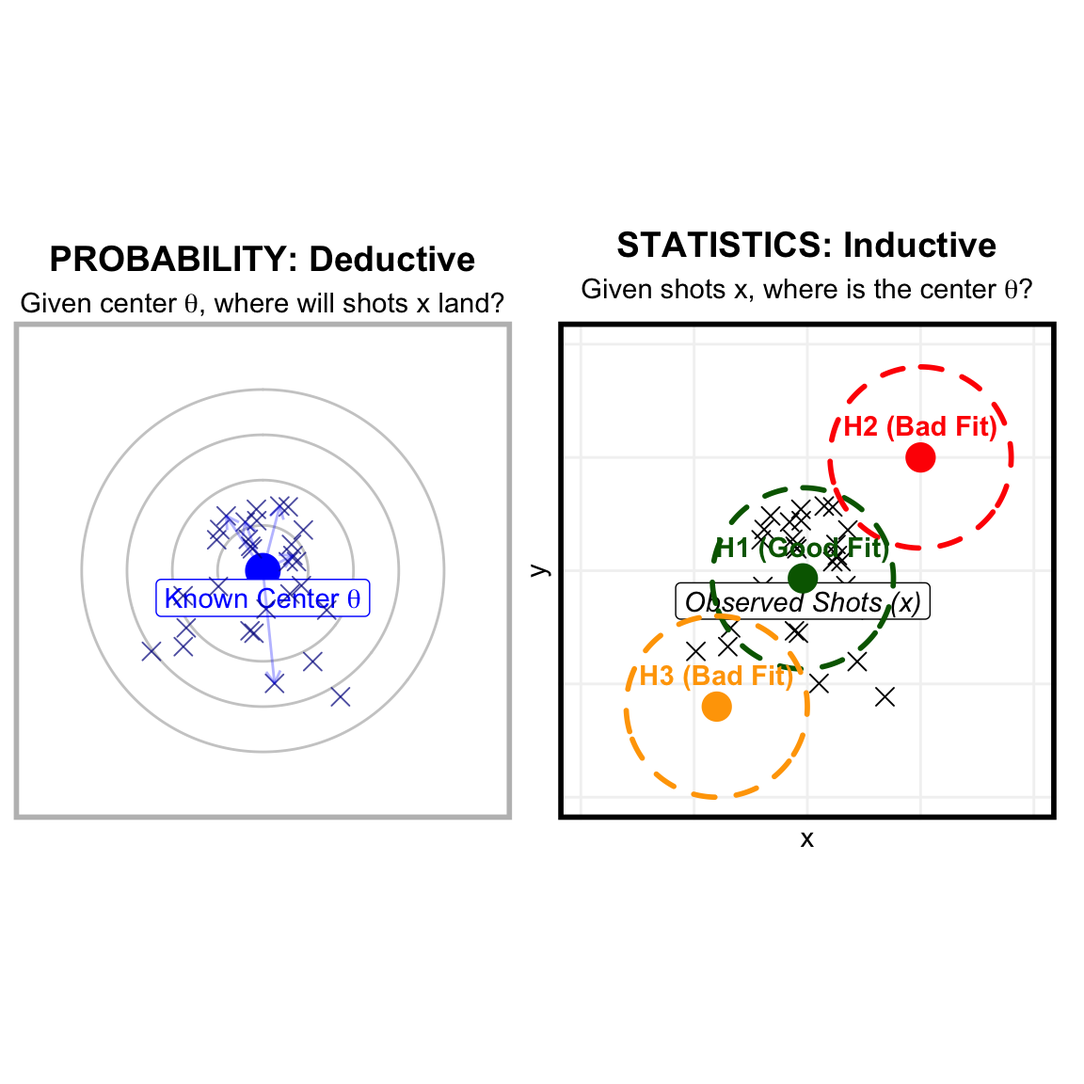
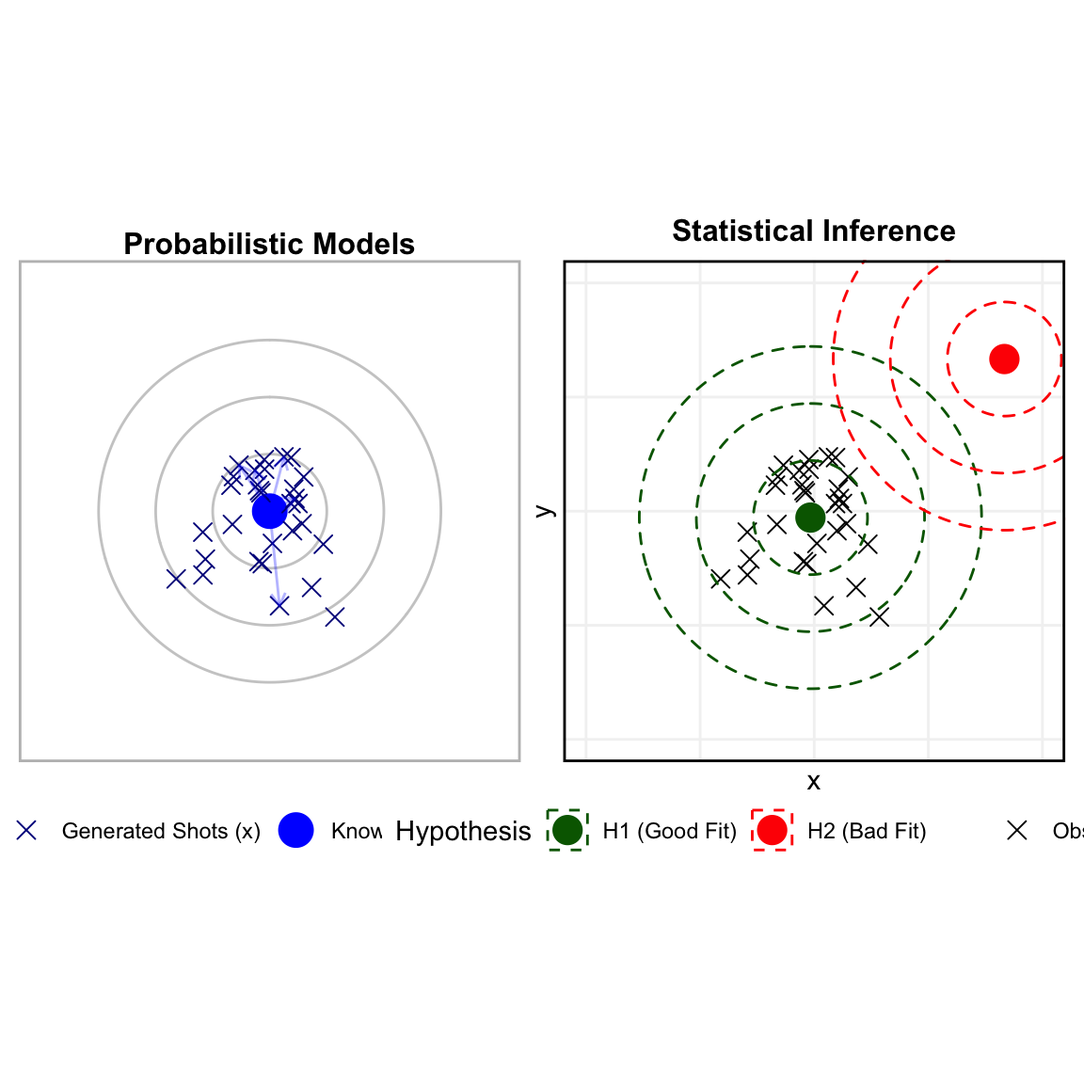
syn2GH from KNW5YYVTFD

diff --git a/teaching/stat850/mathstat/introstatinf.html b/teaching/stat850/mathstat/introstatinf.html
@@ -214,8 +214,14 @@ window.Quarto = {
   <li><a href="#types-of-statistical-inference" id="toc-types-of-statistical-inference" class="nav-link" data-scroll-target="#types-of-statistical-inference"><span class="header-section-number">1.4</span> Types of Statistical Inference</a></li>
   <li><a href="#standard-paradigms-for-inference" id="toc-standard-paradigms-for-inference" class="nav-link" data-scroll-target="#standard-paradigms-for-inference"><span class="header-section-number">1.5</span> Standard Paradigms for Inference</a>
   <ul>
-  <li><a href="#frequentist-inference-fisher" id="toc-frequentist-inference-fisher" class="nav-link" data-scroll-target="#frequentist-inference-fisher"><span class="header-section-number">1.5.1</span> Frequentist Inference (Fisher)</a></li>
-  <li><a href="#bayesian-inference" id="toc-bayesian-inference" class="nav-link" data-scroll-target="#bayesian-inference"><span class="header-section-number">1.5.2</span> Bayesian Inference</a></li>
+  <li><a href="#frequentist-inference-fisher" id="toc-frequentist-inference-fisher" class="nav-link" data-scroll-target="#frequentist-inference-fisher"><span class="header-section-number">1.5.1</span> Frequentist Inference (Fisher)</a>
+  <ul class="collapse">
+  <li><a href="#bernoulli-example-sampling-distribution" id="toc-bernoulli-example-sampling-distribution" class="nav-link" data-scroll-target="#bernoulli-example-sampling-distribution"><span class="header-section-number">1.5.1.1</span> Bernoulli Example: Sampling Distribution</a></li>
+  </ul></li>
+  <li><a href="#bayesian-inference" id="toc-bayesian-inference" class="nav-link" data-scroll-target="#bayesian-inference"><span class="header-section-number">1.5.2</span> Bayesian Inference</a>
+  <ul class="collapse">
+  <li><a href="#bernoulli-example-bayesian-update" id="toc-bernoulli-example-bayesian-update" class="nav-link" data-scroll-target="#bernoulli-example-bayesian-update"><span class="header-section-number">1.5.2.1</span> Bernoulli Example: Bayesian Update</a></li>
+  </ul></li>
   <li><a href="#bayesian-prediction" id="toc-bayesian-prediction" class="nav-link" data-scroll-target="#bayesian-prediction"><span class="header-section-number">1.5.3</span> Bayesian Prediction</a></li>
   </ul></li>
   </ul>
@@ -260,7 +266,10 @@ window.Quarto = {
 <p><strong>Note on Simplicity:</strong></p>
 <p>The assumption that observations are identically distributed is made primarily for <strong>notational simplicity</strong>. There is no fundamental issue in extending this framework to <strong>regression settings</strong>, where the distribution depends on covariates (e.g., <span class="math inline">\(Y_i | X_i\)</span>), or to other complex structures.</p>
 <div id="exm-normal-distribution" class="theorem example">
-<p><span class="theorem-title"><strong>Example 1.1 (Parametric Model)</strong></span> Consider the Normal distribution: <span class="math display">\[f(x; \theta) = \frac{1}{\sqrt{2\pi\sigma^2}} e^{-\frac{(x-\mu)^2}{2\sigma^2}}\]</span> Here, the parameter space is <span class="math inline">\(\Theta = \{ (\mu, \sigma^2) : \mu \in \mathbb{R}, \sigma \in [0, +\infty) \}\)</span>. The goal is to learn aspects of the unknown <span class="math inline">\(\theta\)</span> from observations <span class="math inline">\(X_1, \dots, X_n\)</span>.</p>
+<p><span class="theorem-title"><strong>Example 1.1 (Parametric Model: Normal)</strong></span> Consider the Normal distribution: <span class="math display">\[f(x; \theta) = \frac{1}{\sqrt{2\pi\sigma^2}} e^{-\frac{(x-\mu)^2}{2\sigma^2}}\]</span> Here, the parameter space is <span class="math inline">\(\Theta = \{ (\mu, \sigma^2) : \mu \in \mathbb{R}, \sigma \in [0, +\infty) \}\)</span>. The goal is to learn aspects of the unknown <span class="math inline">\(\theta\)</span> from observations <span class="math inline">\(X_1, \dots, X_n\)</span>.</p>
+</div>
+<div id="exm-bernoulli-distribution" class="theorem example">
+<p><span class="theorem-title"><strong>Example 1.2 (Parametric Model: Bernoulli)</strong></span> Consider a sequence of coin flips where each <span class="math inline">\(X_i \in \{0, 1\}\)</span>. We assume <span class="math inline">\(X_i \sim \text{Bernoulli}(\theta)\)</span>. The probability mass function is: <span class="math display">\[f(x; \theta) = \theta^x (1-\theta)^{1-x}\]</span> Here, the parameter space is <span class="math inline">\(\Theta = [0, 1]\)</span>, where <span class="math inline">\(\theta\)</span> represents the probability of success (e.g., “Heads”).</p>
 </div>
 </section>
 </section>
@@ -275,13 +284,13 @@ window.Quarto = {
 </ul>
 <div class="cell">
 <div class="cell-output-display">
-<div id="fig-prob-vs-stat-target" class="quarto-float quarto-figure quarto-figure-center anchored">
+<div id="fig-prob-vs-stat-base" class="quarto-float quarto-figure quarto-figure-center anchored">
 <figure class="quarto-float quarto-float-fig figure">
-<div aria-describedby="fig-prob-vs-stat-target-caption-0ceaefa1-69ba-4598-a22c-09a6ac19f8ca">
-<img src="introstatinf_files/figure-html/fig-prob-vs-stat-target-1.png" class="img-fluid figure-img" width="576">
+<div aria-describedby="fig-prob-vs-stat-base-caption-0ceaefa1-69ba-4598-a22c-09a6ac19f8ca">
+<img src="introstatinf_files/figure-html/fig-prob-vs-stat-base-1.png" class="img-fluid figure-img" width="960">
 </div>
-<figcaption class="quarto-float-caption-bottom quarto-float-caption quarto-float-fig" id="fig-prob-vs-stat-target-caption-0ceaefa1-69ba-4598-a22c-09a6ac19f8ca">
-Figure&nbsp;1.1: The Shooting Analogy. Left (Probability): The center <span class="math inline">\(\theta\)</span> is fixed; shots <span class="math inline">\(x\)</span> are generated around it. Right (Statistics): The shots <span class="math inline">\(x\)</span> are fixed on a square board; we test different hypothesized centers (colored circles) to see which <span class="math inline">\(\theta\)</span> fit the data best.
+<figcaption class="quarto-float-caption-bottom quarto-float-caption quarto-float-fig" id="fig-prob-vs-stat-base-caption-0ceaefa1-69ba-4598-a22c-09a6ac19f8ca">
+Figure&nbsp;1.1: Probability vs Statistics. Left: Probability—The model is fixed (Blue center/contours), generating random data. Right: Statistics—Data is fixed (Black points); we test two hypothesized models: H1 (Green) centered at the sample mean (Good Fit) and H2 (Red) shifted by (1.5, 1.5) (Bad Fit).
 </figcaption>
 </figure>
 </div>
@@ -295,7 +304,7 @@ Figure&nbsp;1.1: The Shooting Analogy. Left (Probability): The center <span clas
 <p><span class="theorem-title"><strong>Definition 1.2 (Likelihood Function)</strong></span> Let <span class="math inline">\(f(x_1, \dots, x_n; \theta)\)</span> be the joint probability density (or mass) function of the data given the parameter <span class="math inline">\(\theta\)</span>. When we view this function as a function of <span class="math inline">\(\theta\)</span> for fixed observed data <span class="math inline">\(x_1, \dots, x_n\)</span>, we call it the <strong>likelihood function</strong>, denoted <span class="math inline">\(L(\theta)\)</span>. <span class="math display">\[L(\theta) = f(x_1, \dots, x_n; \theta)\]</span></p>
 </div>
 <div id="exm-bernoulli-likelihood" class="theorem example">
-<p><span class="theorem-title"><strong>Example 1.2 (Example: Bernoulli Trial)</strong></span> Consider a coin flip where <span class="math inline">\(X \sim \text{Bernoulli}(\theta)\)</span>. The probability of Heads (1) is <span class="math inline">\(\theta\)</span>, and Tails (0) is <span class="math inline">\(1-\theta\)</span>. Suppose we observe 3 independent flips: <strong>1, 0, 1</strong>.</p>
+<p><span class="theorem-title"><strong>Example 1.3 (Example: Bernoulli Trial)</strong></span> Consider a coin flip where <span class="math inline">\(X \sim \text{Bernoulli}(\theta)\)</span>. The probability of Heads (1) is <span class="math inline">\(\theta\)</span>, and Tails (0) is <span class="math inline">\(1-\theta\)</span>. Suppose we observe 3 independent flips: <strong>1, 0, 1</strong>.</p>
 <p>The probability of observing this specific sequence is: <span class="math display">\[L(\theta) = P(X_1=1) \cdot P(X_2=0) \cdot P(X_3=1) = \theta \cdot (1-\theta) \cdot \theta = \theta^2(1-\theta)\]</span></p>
 <p>We can calculate the likelihood for various values of <span class="math inline">\(\theta\)</span>:</p>
 <table class="caption-top table">
@@ -385,25 +394,25 @@ Figure&nbsp;1.2: The Likelihood Function <span class="math inline">\(L(\theta)\)
 <p><span class="theorem-title"><strong>Definition 1.3 (Point Estimation)</strong></span> We use a single number to capture the parameter. <span class="math display">\[\hat{\theta} = \theta(X_1, \dots, X_n)\]</span></p>
 </div>
 <div id="exm-point-est" class="theorem example">
-<p><span class="theorem-title"><strong>Example 1.3 (Estimating Average Height)</strong></span> We want to estimate the average height (<span class="math inline">\(\mu\)</span>) of all students in a university. We measure 100 students and calculate the sample mean <span class="math inline">\(\bar{x} = 170\)</span> cm. Our point estimate is <span class="math inline">\(\hat{\mu} = 170\)</span>.</p>
+<p><span class="theorem-title"><strong>Example 1.4 (Estimating Average Height)</strong></span> We want to estimate the average height (<span class="math inline">\(\mu\)</span>) of all students in a university. We measure 100 students and calculate the sample mean <span class="math inline">\(\bar{x} = 170\)</span> cm. Our point estimate is <span class="math inline">\(\hat{\mu} = 170\)</span>.</p>
 </div>
 <div id="def-interval-estimation" class="theorem definition">
 <p><span class="theorem-title"><strong>Definition 1.4 (Interval Estimation)</strong></span> We construct an interval that likely contains the true parameter. <span class="math display">\[\theta \in (L(X_1, \dots, X_n), U(X_1, \dots, X_n))\]</span> The true parameter is within this interval.</p>
 </div>
 <div id="exm-interval-est" class="theorem example">
-<p><span class="theorem-title"><strong>Example 1.4 (Confidence Interval for Height)</strong></span> Using the same height data, we calculate a 95% Confidence Interval. We state: “We are 95% confident that the true average height is between 168 cm and 172 cm.”</p>
+<p><span class="theorem-title"><strong>Example 1.5 (Confidence Interval for Height)</strong></span> Using the same height data, we calculate a 95% Confidence Interval. We state: “We are 95% confident that the true average height is between 168 cm and 172 cm.”</p>
 </div>
 <div id="def-hypothesis-testing" class="theorem definition">
 <p><span class="theorem-title"><strong>Definition 1.5 (Hypothesis Testing)</strong></span> We test a specific theory about the parameter. <span class="math display">\[H_0: \theta = \theta_0 \quad \text{vs} \quad H_1: \theta \neq \theta_0\]</span> (Or one-sided alternatives like <span class="math inline">\(\theta &gt; \theta_0\)</span>).</p>
 </div>
 <div id="exm-hypothesis-test" class="theorem example">
-<p><span class="theorem-title"><strong>Example 1.5 (Testing Soda Volume)</strong></span> A manufacturer claims their soda bottles contain exactly 500ml (<span class="math inline">\(H_0: \mu = 500\)</span>). We measure a sample and find an average of 495ml. We perform a test to see if this difference is significant enough to reject the manufacturer’s claim.</p>
+<p><span class="theorem-title"><strong>Example 1.6 (Testing Soda Volume)</strong></span> A manufacturer claims their soda bottles contain exactly 500ml (<span class="math inline">\(H_0: \mu = 500\)</span>). We measure a sample and find an average of 495ml. We perform a test to see if this difference is significant enough to reject the manufacturer’s claim.</p>
 </div>
 <div id="def-predictive-inference" class="theorem definition">
 <p><span class="theorem-title"><strong>Definition 1.6 (Predictive Inference)</strong></span> Given observed data <span class="math inline">\((X_1, Y_1), \dots, (X_n, Y_n)\)</span>, we want to predict a new observation <span class="math inline">\(Y_{n+1}\)</span> given <span class="math inline">\(X_{n+1}\)</span>. This is often the primary goal in <strong>Machine Learning</strong>.</p>
 </div>
 <div id="exm-predictive-inference" class="theorem example">
-<p><span class="theorem-title"><strong>Example 1.6 (Predicting House Prices)</strong></span> Based on data about house sizes (<span class="math inline">\(X\)</span>) and prices (<span class="math inline">\(Y\)</span>) from the last year, we want to predict the selling price (<span class="math inline">\(Y_{n+1}\)</span>) of a specific new house that is 2000 sq ft (<span class="math inline">\(X_{n+1}\)</span>).</p>
+<p><span class="theorem-title"><strong>Example 1.7 (Predicting House Prices)</strong></span> Based on data about house sizes (<span class="math inline">\(X\)</span>) and prices (<span class="math inline">\(Y\)</span>) from the last year, we want to predict the selling price (<span class="math inline">\(Y_{n+1}\)</span>) of a specific new house that is 2000 sq ft (<span class="math inline">\(X_{n+1}\)</span>).</p>
 </div>
 </section>
 <section id="standard-paradigms-for-inference" class="level2" data-number="1.5">
@@ -431,6 +440,68 @@ Figure&nbsp;1.3: Frequentist Concept: The Sampling Distribution. The parameter <
 </div>
 </div>
 </div>
+<section id="bernoulli-example-sampling-distribution" class="level4" data-number="1.5.1.1">
+<h4 data-number="1.5.1.1" class="anchored" data-anchor-id="bernoulli-example-sampling-distribution"><span class="header-section-number">1.5.1.1</span> Bernoulli Example: Sampling Distribution</h4>
+<p>For our Bernoulli data (<span class="math inline">\(x = \{1, 0, 1\}\)</span>, <span class="math inline">\(n=3\)</span>), the estimator <span class="math inline">\(\bar{X}\)</span> is a scaled Binomial variable. If the true parameter were <span class="math inline">\(\theta = 0.5\)</span>, the exact distribution and its Normal approximation would be:</p>
+<div class="cell">
+<details class="code-fold">
+<summary>Code</summary>
+<div class="sourceCode cell-code" id="cb2"><pre class="sourceCode r code-with-copy"><code class="sourceCode r"><span id="cb2-1"><a href="#cb2-1" aria-hidden="true" tabindex="-1"></a>true_theta <span class="ot">&lt;-</span> <span class="fl">0.5</span></span>
+<span id="cb2-2"><a href="#cb2-2" aria-hidden="true" tabindex="-1"></a>n <span class="ot">&lt;-</span> <span class="dv">3</span></span>
+<span id="cb2-3"><a href="#cb2-3" aria-hidden="true" tabindex="-1"></a>k_vals <span class="ot">&lt;-</span> <span class="dv">0</span><span class="sc">:</span>n</span>
+<span id="cb2-4"><a href="#cb2-4" aria-hidden="true" tabindex="-1"></a>x_bar_vals <span class="ot">&lt;-</span> k_vals <span class="sc">/</span> n</span>
+<span id="cb2-5"><a href="#cb2-5" aria-hidden="true" tabindex="-1"></a>probs <span class="ot">&lt;-</span> <span class="fu">dbinom</span>(k_vals, <span class="at">size=</span>n, <span class="at">prob=</span>true_theta)</span>
+<span id="cb2-6"><a href="#cb2-6" aria-hidden="true" tabindex="-1"></a></span>
+<span id="cb2-7"><a href="#cb2-7" aria-hidden="true" tabindex="-1"></a>df_exact <span class="ot">&lt;-</span> <span class="fu">data.frame</span>(<span class="at">x_bar =</span> x_bar_vals, <span class="at">prob =</span> probs)</span>
+<span id="cb2-8"><a href="#cb2-8" aria-hidden="true" tabindex="-1"></a></span>
+<span id="cb2-9"><a href="#cb2-9" aria-hidden="true" tabindex="-1"></a>x_grid <span class="ot">&lt;-</span> <span class="fu">seq</span>(<span class="sc">-</span><span class="fl">0.2</span>, <span class="fl">1.2</span>, <span class="at">length.out=</span><span class="dv">200</span>)</span>
+<span id="cb2-10"><a href="#cb2-10" aria-hidden="true" tabindex="-1"></a>sd_approx <span class="ot">&lt;-</span> <span class="fu">sqrt</span>(true_theta <span class="sc">*</span> (<span class="dv">1</span> <span class="sc">-</span> true_theta) <span class="sc">/</span> n)</span>
+<span id="cb2-11"><a href="#cb2-11" aria-hidden="true" tabindex="-1"></a>norm_dens <span class="ot">&lt;-</span> <span class="fu">dnorm</span>(x_grid, <span class="at">mean=</span>true_theta, <span class="at">sd=</span>sd_approx)</span>
+<span id="cb2-12"><a href="#cb2-12" aria-hidden="true" tabindex="-1"></a>df_approx <span class="ot">&lt;-</span> <span class="fu">data.frame</span>(<span class="at">x =</span> x_grid, <span class="at">density =</span> norm_dens)</span>
+<span id="cb2-13"><a href="#cb2-13" aria-hidden="true" tabindex="-1"></a></span>
+<span id="cb2-14"><a href="#cb2-14" aria-hidden="true" tabindex="-1"></a><span class="co"># Identify extreme regions for p-value shading (Two-sided: x &gt;= 2/3 and x &lt;= 1/3)</span></span>
+<span id="cb2-15"><a href="#cb2-15" aria-hidden="true" tabindex="-1"></a><span class="co"># Note: 1/3 is symmetric to 2/3 around the mean of 0.5</span></span>
+<span id="cb2-16"><a href="#cb2-16" aria-hidden="true" tabindex="-1"></a>df_shade <span class="ot">&lt;-</span> <span class="fu">subset</span>(df_approx, x <span class="sc">&gt;=</span> <span class="dv">2</span><span class="sc">/</span><span class="dv">3</span> <span class="sc">|</span> x <span class="sc">&lt;=</span> <span class="dv">1</span><span class="sc">/</span><span class="dv">3</span>)</span>
+<span id="cb2-17"><a href="#cb2-17" aria-hidden="true" tabindex="-1"></a></span>
+<span id="cb2-18"><a href="#cb2-18" aria-hidden="true" tabindex="-1"></a><span class="fu">ggplot</span>() <span class="sc">+</span></span>
+<span id="cb2-19"><a href="#cb2-19" aria-hidden="true" tabindex="-1"></a>  <span class="co"># 1. Exact Discrete Bars</span></span>
+<span id="cb2-20"><a href="#cb2-20" aria-hidden="true" tabindex="-1"></a>  <span class="fu">geom_segment</span>(<span class="at">data=</span>df_exact, <span class="fu">aes</span>(<span class="at">x=</span>x_bar, <span class="at">xend=</span>x_bar, <span class="at">y=</span><span class="dv">0</span>, <span class="at">yend=</span>prob), </span>
+<span id="cb2-21"><a href="#cb2-21" aria-hidden="true" tabindex="-1"></a>               <span class="at">size=</span><span class="dv">5</span>, <span class="at">color=</span><span class="st">"darkgreen"</span>, <span class="at">alpha=</span><span class="fl">0.6</span>) <span class="sc">+</span></span>
+<span id="cb2-22"><a href="#cb2-22" aria-hidden="true" tabindex="-1"></a>  </span>
+<span id="cb2-23"><a href="#cb2-23" aria-hidden="true" tabindex="-1"></a>  <span class="co"># 2. Shaded P-value Regions (Normal Approx)</span></span>
+<span id="cb2-24"><a href="#cb2-24" aria-hidden="true" tabindex="-1"></a>  <span class="fu">geom_area</span>(<span class="at">data=</span>df_shade, <span class="fu">aes</span>(<span class="at">x=</span>x, <span class="at">y=</span>density <span class="sc">*</span> (<span class="dv">1</span><span class="sc">/</span>n)), </span>
+<span id="cb2-25"><a href="#cb2-25" aria-hidden="true" tabindex="-1"></a>            <span class="at">fill=</span><span class="st">"red"</span>, <span class="at">alpha=</span><span class="fl">0.3</span>) <span class="sc">+</span></span>
+<span id="cb2-26"><a href="#cb2-26" aria-hidden="true" tabindex="-1"></a>  </span>
+<span id="cb2-27"><a href="#cb2-27" aria-hidden="true" tabindex="-1"></a>  <span class="co"># 3. Normal Approximation Curve</span></span>
+<span id="cb2-28"><a href="#cb2-28" aria-hidden="true" tabindex="-1"></a>  <span class="fu">geom_line</span>(<span class="at">data=</span>df_approx, <span class="fu">aes</span>(<span class="at">x=</span>x, <span class="at">y=</span>density <span class="sc">*</span> (<span class="dv">1</span><span class="sc">/</span>n)), </span>
+<span id="cb2-29"><a href="#cb2-29" aria-hidden="true" tabindex="-1"></a>            <span class="at">color=</span><span class="st">"red"</span>, <span class="at">size=</span><span class="fl">1.2</span>, <span class="at">linetype=</span><span class="st">"dashed"</span>) <span class="sc">+</span></span>
+<span id="cb2-30"><a href="#cb2-30" aria-hidden="true" tabindex="-1"></a>  </span>
+<span id="cb2-31"><a href="#cb2-31" aria-hidden="true" tabindex="-1"></a>  <span class="co"># 4. Vertical Line at Observed Mean</span></span>
+<span id="cb2-32"><a href="#cb2-32" aria-hidden="true" tabindex="-1"></a>  <span class="fu">geom_vline</span>(<span class="at">xintercept =</span> <span class="dv">2</span><span class="sc">/</span><span class="dv">3</span>, <span class="at">color =</span> <span class="st">"blue"</span>, <span class="at">size =</span> <span class="dv">1</span>, <span class="at">linetype =</span> <span class="st">"solid"</span>) <span class="sc">+</span></span>
+<span id="cb2-33"><a href="#cb2-33" aria-hidden="true" tabindex="-1"></a>  <span class="fu">annotate</span>(<span class="st">"text"</span>, <span class="at">x =</span> <span class="dv">2</span><span class="sc">/</span><span class="dv">3</span>, <span class="at">y =</span> <span class="sc">-</span><span class="fl">0.02</span>, <span class="at">label =</span> <span class="st">"Observed</span><span class="sc">\n</span><span class="st">bar(x) == 2/3"</span>, </span>
+<span id="cb2-34"><a href="#cb2-34" aria-hidden="true" tabindex="-1"></a>           <span class="at">parse =</span> <span class="cn">TRUE</span>, <span class="at">color =</span> <span class="st">"blue"</span>, <span class="at">vjust =</span> <span class="dv">1</span>, <span class="at">size =</span> <span class="fl">3.5</span>) <span class="sc">+</span></span>
+<span id="cb2-35"><a href="#cb2-35" aria-hidden="true" tabindex="-1"></a>  </span>
+<span id="cb2-36"><a href="#cb2-36" aria-hidden="true" tabindex="-1"></a>  <span class="fu">labs</span>(<span class="at">title =</span> <span class="fu">expression</span>(<span class="fu">paste</span>(<span class="st">"Sampling Distribution: Transformed Binomial vs. Normal"</span>)),</span>
+<span id="cb2-37"><a href="#cb2-37" aria-hidden="true" tabindex="-1"></a>       <span class="at">subtitle =</span> <span class="fu">expression</span>(<span class="fu">paste</span>(<span class="st">"Testing "</span>, H[<span class="dv">0</span>]<span class="sc">:</span> theta <span class="sc">==</span> <span class="fl">0.5</span>, <span class="st">" vs "</span>, H[<span class="dv">1</span>]<span class="sc">:</span> theta <span class="sc">!=</span> <span class="fl">0.5</span>)),</span>
+<span id="cb2-38"><a href="#cb2-38" aria-hidden="true" tabindex="-1"></a>       <span class="at">x =</span> <span class="fu">expression</span>(<span class="fu">bar</span>(x)), <span class="at">y =</span> <span class="st">"Probability Mass"</span>) <span class="sc">+</span></span>
+<span id="cb2-39"><a href="#cb2-39" aria-hidden="true" tabindex="-1"></a>  <span class="fu">theme_minimal</span>() <span class="sc">+</span></span>
+<span id="cb2-40"><a href="#cb2-40" aria-hidden="true" tabindex="-1"></a>  <span class="co"># Increase bottom margin for annotation</span></span>
+<span id="cb2-41"><a href="#cb2-41" aria-hidden="true" tabindex="-1"></a>  <span class="fu">theme</span>(<span class="at">plot.margin =</span> <span class="fu">margin</span>(<span class="at">t=</span><span class="dv">10</span>, <span class="at">r=</span><span class="dv">10</span>, <span class="at">b=</span><span class="dv">30</span>, <span class="at">l=</span><span class="dv">10</span>))</span></code><button title="Copy to Clipboard" class="code-copy-button"><i class="bi"></i></button></pre></div>
+</details>
+<div class="cell-output-display">
+<div id="fig-freq-sampling-bernoulli-pvalue" class="quarto-float quarto-figure quarto-figure-center anchored">
+<figure class="quarto-float quarto-float-fig figure">
+<div aria-describedby="fig-freq-sampling-bernoulli-pvalue-caption-0ceaefa1-69ba-4598-a22c-09a6ac19f8ca">
+<img src="introstatinf_files/figure-html/fig-freq-sampling-bernoulli-pvalue-1.png" class="img-fluid figure-img" width="576">
+</div>
+<figcaption class="quarto-float-caption-bottom quarto-float-caption quarto-float-fig" id="fig-freq-sampling-bernoulli-pvalue-caption-0ceaefa1-69ba-4598-a22c-09a6ac19f8ca">
+Figure&nbsp;1.4: Sampling Distribution of <span class="math inline">\(\bar{X}\)</span> for <span class="math inline">\(n=3\)</span> assuming true <span class="math inline">\(\theta=0.5\)</span>. The vertical line shows the observed <span class="math inline">\(\bar{x}=2/3\)</span>. The shaded red areas represent the p-value (probability of observing a result as extreme as 2/3 under the Null).
+</figcaption>
+</figure>
+</div>
+</div>
+</div>
+</section>
 </section>
 <section id="bayesian-inference" class="level3" data-number="1.5.2">
 <h3 data-number="1.5.2" class="anchored" data-anchor-id="bayesian-inference"><span class="header-section-number">1.5.2</span> Bayesian Inference</h3>
@@ -441,20 +512,48 @@ Figure&nbsp;1.3: Frequentist Concept: The Sampling Distribution. The parameter <
 <li><strong>Posterior:</strong> We compute the posterior distribution using Bayes’ theorem: <span class="math display">\[f(\theta|x_1, \ldots, x_n) = \frac{\pi(\theta)f(x_1, \ldots, x_n|\theta)}{\int \pi(\theta)f(x_1, \ldots, x_n|\theta) d\theta}\]</span></li>
 </ol>
 <p>In this framework, inference is based entirely on the <strong>Posterior Distribution</strong>, which combines the Prior and the Likelihood.</p>
+<section id="bernoulli-example-bayesian-update" class="level4" data-number="1.5.2.1">
+<h4 data-number="1.5.2.1" class="anchored" data-anchor-id="bernoulli-example-bayesian-update"><span class="header-section-number">1.5.2.1</span> Bernoulli Example: Bayesian Update</h4>
+<p>Using <span class="math inline">\(x = \{1, 0, 1\}\)</span> and a weakly informative <span class="math inline">\(\text{Beta}(2,2)\)</span> prior:</p>
+<ul>
+<li><strong>Prior:</strong> <span class="math inline">\(\theta \sim \text{Beta}(2,2)\)</span></li>
+<li><strong>Likelihood:</strong> <span class="math inline">\(L(\theta) \propto \theta^2(1-\theta)^1\)</span></li>
+<li><strong>Posterior:</strong> <span class="math inline">\(\theta|x \sim \text{Beta}(2+2, 2+1) = \text{Beta}(4,3)\)</span></li>
+</ul>
 <div class="cell">
+<details class="code-fold">
+<summary>Code</summary>
+<div class="sourceCode cell-code" id="cb3"><pre class="sourceCode r code-with-copy"><code class="sourceCode r"><span id="cb3-1"><a href="#cb3-1" aria-hidden="true" tabindex="-1"></a>theta_grid <span class="ot">&lt;-</span> <span class="fu">seq</span>(<span class="dv">0</span>, <span class="dv">1</span>, <span class="at">length.out =</span> <span class="dv">200</span>)</span>
+<span id="cb3-2"><a href="#cb3-2" aria-hidden="true" tabindex="-1"></a>prior <span class="ot">&lt;-</span> <span class="fu">dbeta</span>(theta_grid, <span class="dv">2</span>, <span class="dv">2</span>)</span>
+<span id="cb3-3"><a href="#cb3-3" aria-hidden="true" tabindex="-1"></a>posterior <span class="ot">&lt;-</span> <span class="fu">dbeta</span>(theta_grid, <span class="dv">4</span>, <span class="dv">3</span>)</span>
+<span id="cb3-4"><a href="#cb3-4" aria-hidden="true" tabindex="-1"></a></span>
+<span id="cb3-5"><a href="#cb3-5" aria-hidden="true" tabindex="-1"></a>df_bayes <span class="ot">&lt;-</span> <span class="fu">data.frame</span>(</span>
+<span id="cb3-6"><a href="#cb3-6" aria-hidden="true" tabindex="-1"></a>  <span class="at">Theta =</span> <span class="fu">rep</span>(theta_grid, <span class="dv">2</span>),</span>
+<span id="cb3-7"><a href="#cb3-7" aria-hidden="true" tabindex="-1"></a>  <span class="at">Density =</span> <span class="fu">c</span>(prior, posterior),</span>
+<span id="cb3-8"><a href="#cb3-8" aria-hidden="true" tabindex="-1"></a>  <span class="at">Type =</span> <span class="fu">rep</span>(<span class="fu">c</span>(<span class="st">"Prior"</span>, <span class="st">"Posterior"</span>), <span class="at">each =</span> <span class="dv">200</span>)</span>
+<span id="cb3-9"><a href="#cb3-9" aria-hidden="true" tabindex="-1"></a>)</span>
+<span id="cb3-10"><a href="#cb3-10" aria-hidden="true" tabindex="-1"></a></span>
+<span id="cb3-11"><a href="#cb3-11" aria-hidden="true" tabindex="-1"></a><span class="fu">ggplot</span>(df_bayes, <span class="fu">aes</span>(<span class="at">x =</span> Theta, <span class="at">y =</span> Density, <span class="at">color =</span> Type, <span class="at">linetype =</span> Type)) <span class="sc">+</span></span>
+<span id="cb3-12"><a href="#cb3-12" aria-hidden="true" tabindex="-1"></a>  <span class="fu">geom_line</span>(<span class="at">size =</span> <span class="fl">1.2</span>) <span class="sc">+</span></span>
+<span id="cb3-13"><a href="#cb3-13" aria-hidden="true" tabindex="-1"></a>  <span class="fu">scale_color_manual</span>(<span class="at">values =</span> <span class="fu">c</span>(<span class="st">"Posterior"</span> <span class="ot">=</span> <span class="st">"blue"</span>, <span class="st">"Prior"</span> <span class="ot">=</span> <span class="st">"gray"</span>)) <span class="sc">+</span></span>
+<span id="cb3-14"><a href="#cb3-14" aria-hidden="true" tabindex="-1"></a>  <span class="fu">labs</span>(<span class="at">title =</span> <span class="st">"Bayesian Updating: Prior vs Posterior"</span>,</span>
+<span id="cb3-15"><a href="#cb3-15" aria-hidden="true" tabindex="-1"></a>       <span class="at">x =</span> <span class="fu">expression</span>(theta), <span class="at">y =</span> <span class="st">"Density"</span>) <span class="sc">+</span></span>
+<span id="cb3-16"><a href="#cb3-16" aria-hidden="true" tabindex="-1"></a>  <span class="fu">theme_minimal</span>()</span></code><button title="Copy to Clipboard" class="code-copy-button"><i class="bi"></i></button></pre></div>
+</details>
 <div class="cell-output-display">
-<div id="fig-posterior" class="quarto-float quarto-figure quarto-figure-center anchored">
+<div id="fig-posterior-bernoulli" class="quarto-float quarto-figure quarto-figure-center anchored">
 <figure class="quarto-float quarto-float-fig figure">
-<div aria-describedby="fig-posterior-caption-0ceaefa1-69ba-4598-a22c-09a6ac19f8ca">
-<img src="introstatinf_files/figure-html/fig-posterior-1.png" class="img-fluid figure-img" width="576">
+<div aria-describedby="fig-posterior-bernoulli-caption-0ceaefa1-69ba-4598-a22c-09a6ac19f8ca">
+<img src="introstatinf_files/figure-html/fig-posterior-bernoulli-1.png" class="img-fluid figure-img" width="576">
 </div>
-<figcaption class="quarto-float-caption-bottom quarto-float-caption quarto-float-fig" id="fig-posterior-caption-0ceaefa1-69ba-4598-a22c-09a6ac19f8ca">
-Figure&nbsp;1.4: Bayesian Concept: Updating Beliefs. The Prior (dashed) is updated by the Data (Likelihood) to form the Posterior (solid). <span class="math inline">\(\theta\)</span> is treated as a random variable.
+<figcaption class="quarto-float-caption-bottom quarto-float-caption quarto-float-fig" id="fig-posterior-bernoulli-caption-0ceaefa1-69ba-4598-a22c-09a6ac19f8ca">
+Figure&nbsp;1.5: Bayesian Updating for Bernoulli Data {1, 0, 1}.
 </figcaption>
 </figure>
 </div>
 </div>
 </div>
+</section>
 </section>
 <section id="bayesian-prediction" class="level3" data-number="1.5.3">
 <h3 data-number="1.5.3" class="anchored" data-anchor-id="bayesian-prediction"><span class="header-section-number">1.5.3</span> Bayesian Prediction</h3>

diff --git a/teaching/stat850/mathstat/resources/mystyles.css b/teaching/stat850/mathstat/resources/mystyles.css
@@ -76,7 +76,7 @@ main img:not(.logo),
 .contents img:not(.logo),
 #main img:not(.logo) {
   max-width: 100% !important;
-  width: 70% !important;
+  width: 90% !important;
   height: auto;
   margin: 1em auto;
   display: block;
